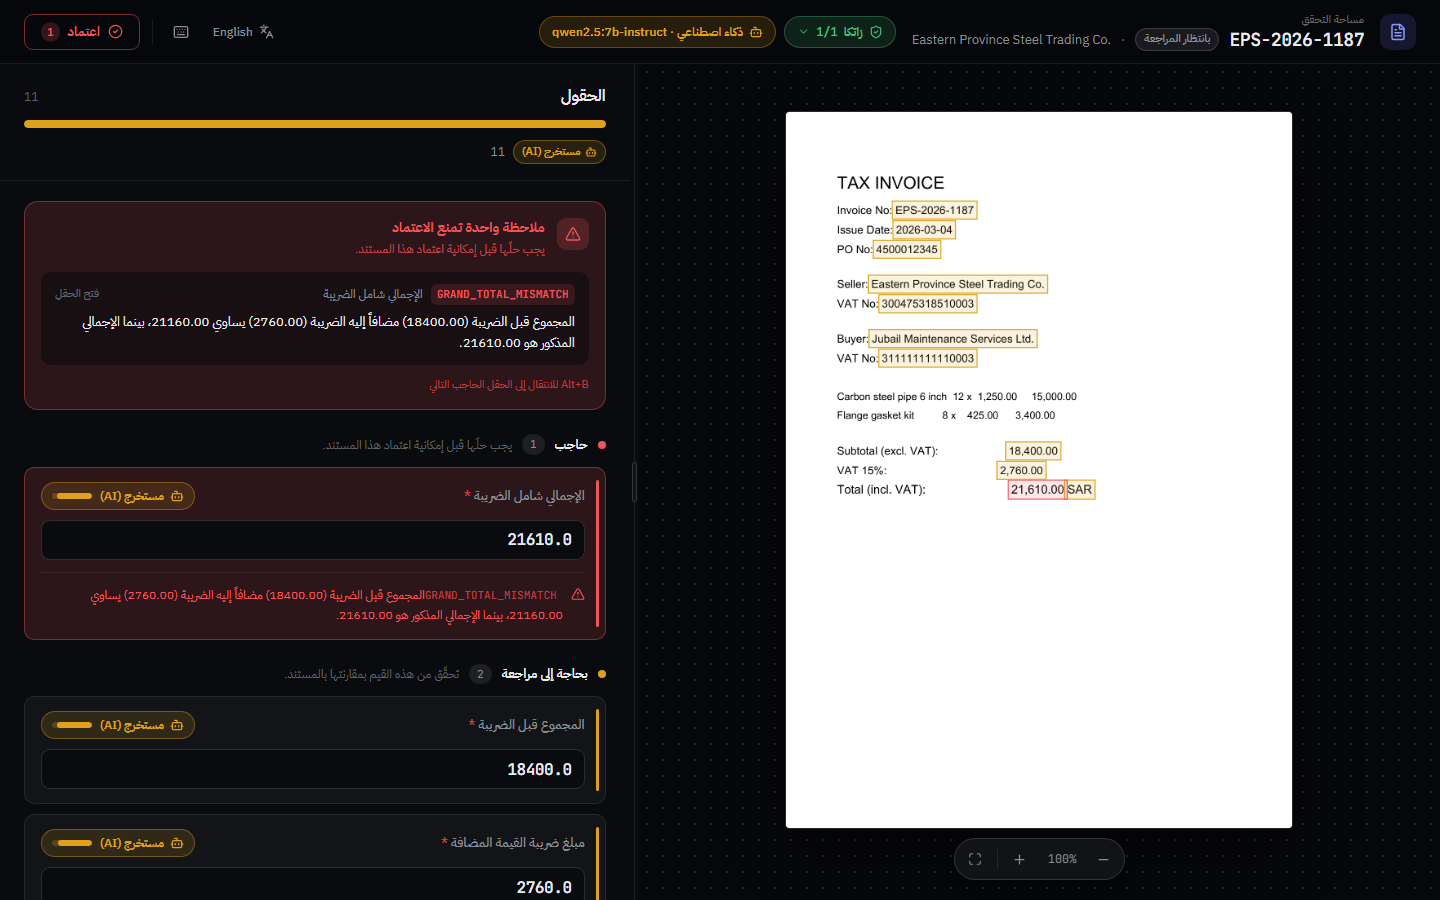
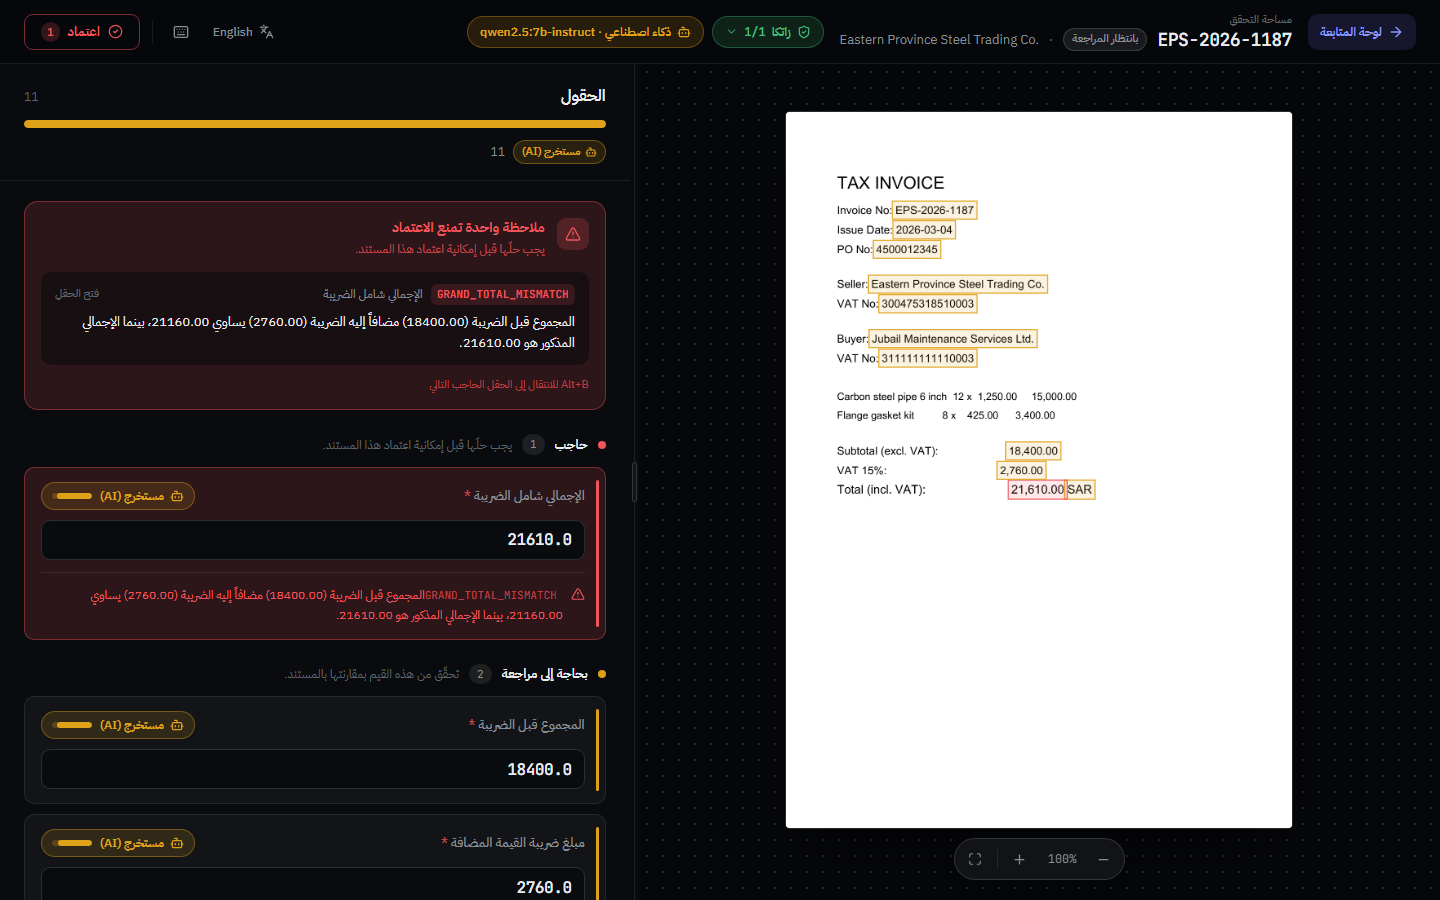
feat(frontend): back link from the validation workspace; drop create-next-app boilerplate
The workspace sits outside the app shell so it can own the viewport, which left
it with no sidebar and no way back to the dashboard. The header's decorative
start tile is now a labelled link to /{locale}/dashboard. It sits at the
inline-start edge in both languages and its arrow flips under RTL.

Remove the untouched create-next-app leftovers: public/{file,globe,next,vercel,
window}.svg and frontend/README.md. Nothing referenced them.

Recapture the four workspace screenshots, which showed the old header.

Changed region(s): [[0.3125, 0.0, 0.9688, 0.0622]]

diff --git a/frontend/src/components/validation/ValidationWorkspace.tsx b/frontend/src/components/validation/ValidationWorkspace.tsx
@@ -18,7 +18,15 @@
  * summarise the document, so they sit next to its name and open on demand.
  */
 
-import { CircleCheck, FileText, Keyboard, Languages, Loader2, TriangleAlert, X } from "lucide-react";
+import {
+  ArrowLeft,
+  CircleCheck,
+  Keyboard,
+  Languages,
+  Loader2,
+  TriangleAlert,
+  X,
+} from "lucide-react";
 import Link from "next/link";
 import { useCallback, useMemo, useRef, useState } from "react";
 
@@ -318,9 +326,15 @@ function Header({
 
   return (
     <header className="flex h-16 shrink-0 items-center gap-4 border-b border-line bg-sidebar px-6">
-      <span className="flex h-9 w-9 shrink-0 items-center justify-center rounded-[10px] bg-accent/15 text-accent-strong">
-        <FileText size={18} aria-hidden />
-      </span>
+      {/* The way back. The workspace sits outside the app shell so it can own the
+          whole viewport, which means it has no sidebar to leave by. */}
+      <Link
+        href={`/${locale}/dashboard`}
+        className="flex h-9 shrink-0 items-center gap-1.5 rounded-[10px] bg-accent/15 px-3 text-[12px] font-semibold text-accent-strong transition-colors hover:bg-accent/25"
+      >
+        <ArrowLeft size={16} aria-hidden className="rtl:-scale-x-100" />
+        {t.nav.dashboard}
+      </Link>
 
       <div className="min-w-0">
         <p className="text-[11px] font-medium leading-4 text-ink-faint">{t.workspace.title}</p>
